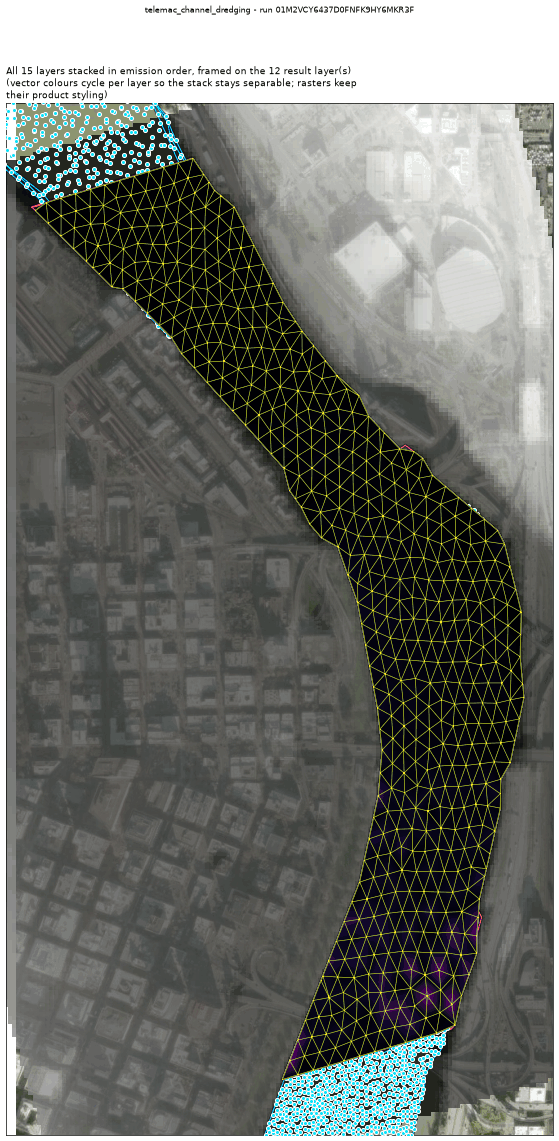
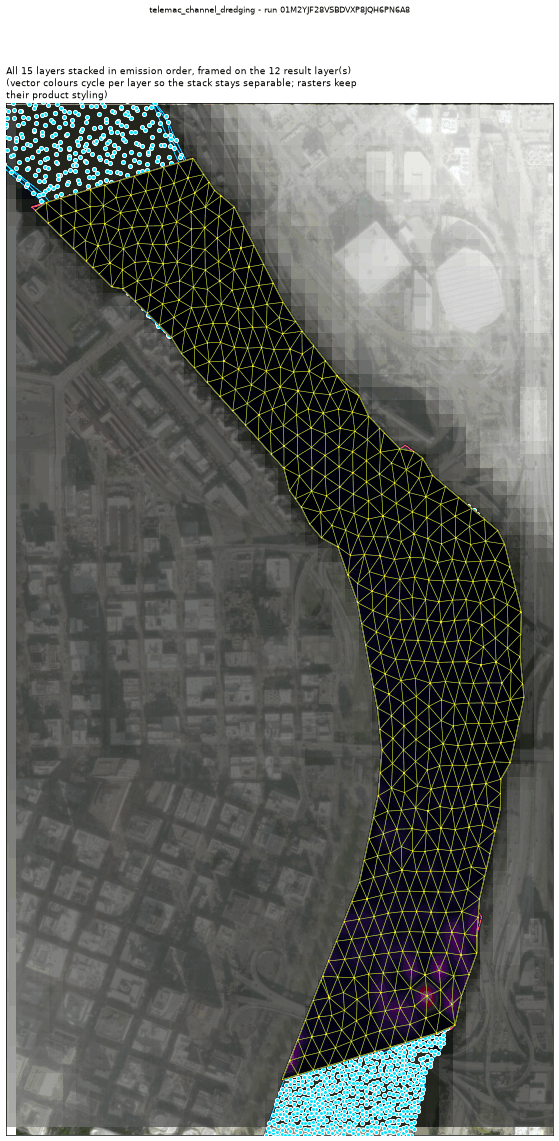
docs: the dredging page is pinned to the run made on the reach hook
Claude-Session: https://claude.ai/code/session_011wCduZ7TyoMtpZoGZfh2Rw

diff --git a/docs/templates/telemac_channel_dredging.md b/docs/templates/telemac_channel_dredging.md
@@ -46,19 +46,19 @@ The values the template declares. `desc` is what the model reads when it fills o
 
 | field | the proving run's value |
 |---|---|
-| `dug_volume_m3` | 1301.708566 |
-| `dumped_volume_m3` | 1301.708566 |
+| `dug_volume_m3` | 1510.128165 |
+| `dumped_volume_m3` | 1510.128165 |
 | `dredge_report` | the volumes are the engine's own report lines, summed over the passes that finished inside the run's clock |
-| `dredged_bed_change_m` | -0.9154806137084961 |
-| `dumped_bed_change_m` | 0.19385552406311035 |
+| `dredged_bed_change_m` | -1.0620603561401367 |
+| `dumped_bed_change_m` | 0.2248941957950592 |
 | `net_bed_mass_kg` | 0.0 |
 | `mesh_size_m` | 10.33 |
 
 It publishes these layers onto the canvas:
 
-- Input: river reach (river_reach)
-- Input: channel survey soundings (ehydro_surveys)
-- Input: channel bed elevation (dem, 3DEP 1-10 m US lidar (default 10 m); Copernicus GLO-30 30 m global via source=copernicus, datum NAVD88 (metres, positive up))
+- Input: domain (river_reach)
+- Input: bed (ehydro_surveys)
+- Input: bed (3dep_extra, datum NAVD88 (metres, positive up))
 - Velocity u over time (river_reach_domain_mesh)
 - Velocity v over time (river_reach_domain_mesh)
 - Water depth over time (river_reach_domain_mesh)
@@ -74,19 +74,19 @@ It publishes these layers onto the canvas:
 
 ## The proving run
 
-Run `01M2VCY6437D0FNFK9HY6MKR3F`, 2026-09-18T23:17:17.492237+00:00, 29.715 s, at commit `966392d7b95ac996d00a5df14f667096b64a3e2a-dirty`.
+Run `01M2YJF28VSBDVXP8JQH6PN6A8`, 2026-09-20T04:51:41.964920+00:00, 85.194 s, at commit `24f2cef04e9168ebba467497d21e65fed461d71c-dirty`.
 
-![Every layer the run published, stacked and framed on the result (run 01M2VCY6437D0FNFK9HY6MKR3F)](telemac_channel_dredging/telemac_channel_dredging.png)
+![Every layer the run published, stacked and framed on the result (run 01M2YJF28VSBDVXP8JQH6PN6A8)](telemac_channel_dredging/telemac_channel_dredging.png)
 
-*Every layer the run published, stacked and framed on the result (run 01M2VCY6437D0FNFK9HY6MKR3F)*
+*Every layer the run published, stacked and framed on the result (run 01M2YJF28VSBDVXP8JQH6PN6A8)*
 
-![The solve, frame by frame (run 01M2VCY6437D0FNFK9HY6MKR3F)](telemac_channel_dredging/telemac_channel_dredging_animation.gif)
+![The solve, frame by frame (run 01M2YJF28VSBDVXP8JQH6PN6A8)](telemac_channel_dredging/telemac_channel_dredging_animation.gif)
 
-*The solve, frame by frame (run 01M2VCY6437D0FNFK9HY6MKR3F)*
+*The solve, frame by frame (run 01M2YJF28VSBDVXP8JQH6PN6A8)*
 
-![final frame (run 01M2VCY6437D0FNFK9HY6MKR3F)](telemac_channel_dredging/telemac_channel_dredging_final_frame.png)
+![final frame (run 01M2YJF28VSBDVXP8JQH6PN6A8)](telemac_channel_dredging/telemac_channel_dredging_final_frame.png)
 
-*final frame (run 01M2VCY6437D0FNFK9HY6MKR3F)*
+*final frame (run 01M2YJF28VSBDVXP8JQH6PN6A8)*
 
 ### The sheet it filled
 
@@ -94,7 +94,7 @@ Every slot the run resolved, with where the value came from. The engine's own de
 
 | param | value | units | basis | provenance |
 |---|---|---|---|---|
-| `seed_point` | Point(lon=-122.6691667, lat=45.5175, name=None) | - | user | supplied on this invocation |
+| `seed_point` | {'lon': -122.6691667, 'lat': 45.5175, 'name': None} | - | user | supplied on this invocation |
 | `design_depth_m` | 13.0 | m | user | supplied on this invocation |
 | `trigger_depth_m` | 12.8 | m | user | supplied on this invocation |
 | `dredge_start_s` | 600.0 | s | user | supplied on this invocation |
@@ -121,10 +121,15 @@ await TOOL_REGISTRY['telemac_channel_dredging'].fn(
     dredge_start_s=600.0,
     dump_rate_m_per_s=0.02,
     mesh_resolution_m=30.0,
-    seed_point='Point(lon=-122.6691667, lat=45.5175, name=None)',
+    seed_point={'lon': -122.6691667, 'lat': 45.5175, 'name': None},
     trigger_depth_m=12.8,
+    discharge=56.6,
+    dredge_area='{"type": "Polygon", "coordinates": [[[-122.669, 45.5188], [-122.668, 45.5188], [-122.668, 45.5196], [-122.669, 45.5196], [-122.669, 45.5188]]]}',
+    dump_area='{"type": "Polygon", "coordinates": [[[-122.6688, 45.5208], [-122.6678, 45.5208], [-122.6678, 45.5216], [-122.6688, 45.5216], [-122.6688, 45.5208]]]}',
+    level=2.776,
+    keywords={'DURATION': 600.0},
 )
 ```
 
-That is the invocation this run came from; the figures above are stamped with run `01M2VCY6437D0FNFK9HY6MKR3F` and commit `966392d7b95ac996d00a5df14f667096b64a3e2a-dirty`. The full argument record is [`telemac_channel_dredging/run.json`](telemac_channel_dredging/run.json).
+That is the invocation this run came from; the figures above are stamped with run `01M2YJF28VSBDVXP8JQH6PN6A8` and commit `24f2cef04e9168ebba467497d21e65fed461d71c-dirty`. The full argument record is [`telemac_channel_dredging/run.json`](telemac_channel_dredging/run.json).
 

diff --git a/docs/templates/index.md b/docs/templates/index.md
@@ -34,7 +34,7 @@ Module `telemac2d`, proving run `01M2W9C68ZQVTJHDE2F9GZ36TA`.
 
 MAINTENANCE DREDGING of a navigation channel: how much comes out, and what the bed does.
 
-Module `telemac2d`, proving run `01M2VCY6437D0FNFK9HY6MKR3F`.
+Module `telemac2d`, proving run `01M2YJF28VSBDVXP8JQH6PN6A8`.
 
 ## [`telemac_do_sag`](telemac_do_sag.md)
 
